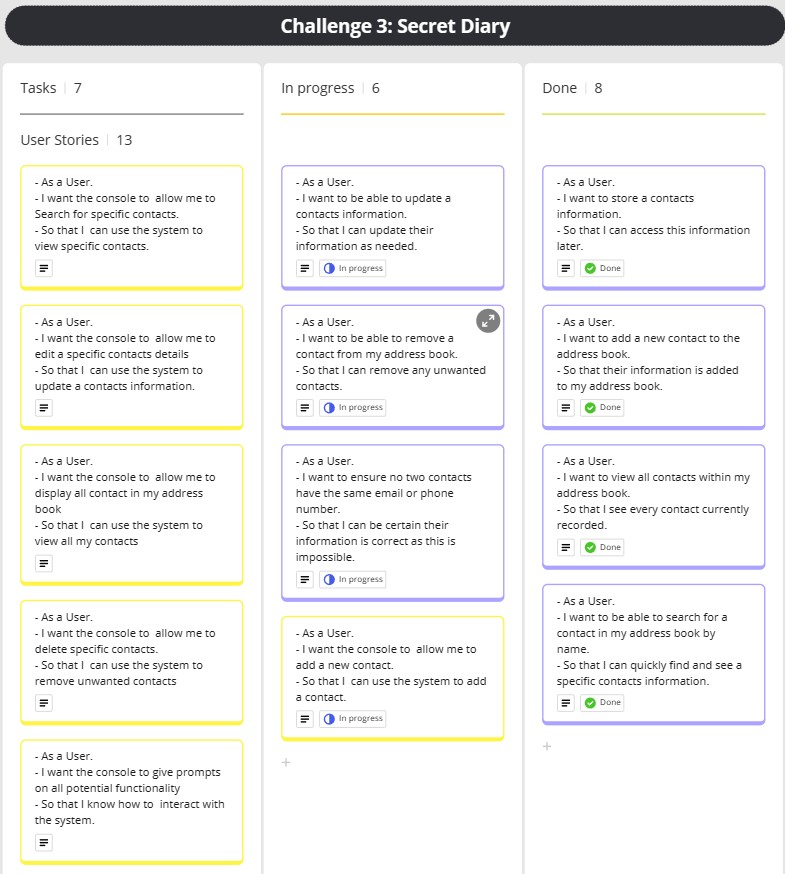
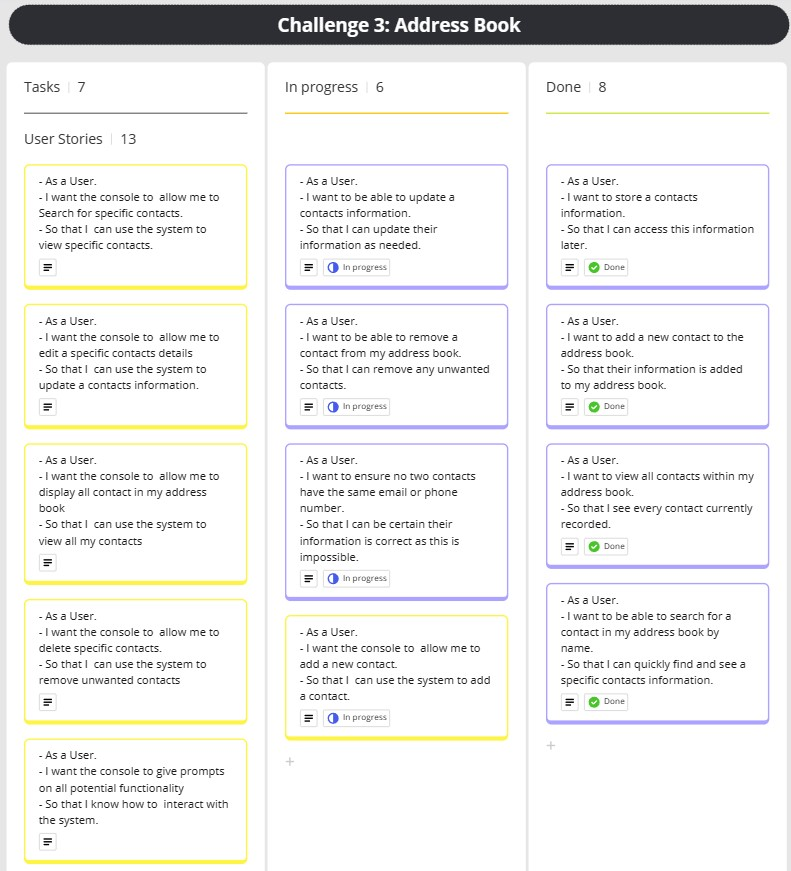
Updated markdown with analysis, updated kaban image, added some minor logic to clear current contact after moving on from searching

diff --git a/src/main/java/com/digitalfutures/app/Main.java b/src/main/java/com/digitalfutures/app/Main.java
@@ -24,10 +24,10 @@ public class Main {
         String read = scanner.nextLine();
         if(read.equalsIgnoreCase("View Contacts")) {
             //view all contacts
-            viewContacts(); return; }
+            viewContacts(); currentContacts = null; return; }
         if(read.equalsIgnoreCase("New Contact")) {
             // make new contact & add to book
-            newContact(); return; }
+            newContact(); currentContacts = null; return; }
         if(read.contains("Search ") || read.contains("search")) {
             // Search & display contact(s)
             searchContacts(read.substring(7)); return; }
@@ -39,7 +39,7 @@ public class Main {
              deleteContact(); return; }
         if(read.equalsIgnoreCase("Help")) {
             // Delete current contact
-            console.printHelp(); return; }
+            console.printHelp(); currentContacts = null; return; }
         // default
         console.printOutput("Invalid Input, type 'Help' to see a list of commands.");
     }

diff --git a/docs/task-analysis.md b/docs/task-analysis.md
@@ -1,48 +1,58 @@
-# Airport Challenge
+# Address Book Challenge
 ## Introduction
-The days of hoarding stacks of money under your mattress are gone, in modern times almost every person has a bank account to manage their finances instead. Banking is an essential part of modern life with it controlling your access to your own money, but in order to maintain security it can be rather cumbersome. Traveling to a bank and waiting in a que just to withdraw £5 for an ice cream sounds like a hassle, so what if there was another way. Introducing this application which can revolutionise the way banking is done.
+Recording your contacts on pen and paper if effective, but wouldn’t it be easier to have all your contacts information at your fingertips?  This application aims to provide an environment where you can store and search through all your contacts, maintaining a personal address book with an easy-to-use console interface. 
 
 ## The Problems
-As someone with a bank account, the ability to perform your online banking remotely can provide some extremely large benefits to both the users and the company.
+When your list of contacts grows over the years, maintaining an easy-to-use repository of them can become a hassle.
 
-- **Difficulty maintaining enough branches for user access?** Whenever someone with a bank account want to withdraw or deposit any amount, even £5, they need to commute to a bank branch. This puts pressure on the company to ensure users have a branch nearby that's open most of the day so competitors can't steal your clients, however this much be highly costly. By allowing your customers to perform some simple banking through tis console application, the number of people needing to commute to a bank physically decreases, giving an opportunity to save costs.
-
-- **Do your customers need to access their accounts quickly?** By providing a digital service available on an electronic device, users can have much quicker access to their accounts than if they went to a bank in person. This results in a much more pleasurable experience from the user as they save time and can complete the task far easier.
-
-- **Need an advantage over competitors?** Promoting this software and giving access to your customers is a strong advertising tool that may help the company hold a larger share of the market. The software is easy to use and provides quick access to all a user's daily requirements, by advertising this it's sure to grab the attention of potential customers and show the appeal of moving their account to your bank.
+- **Too Many Contacts?** As you add contacts over the years, maintaining an easy-to-read list of alphabetical names can become a difficult task. Even if you succeed, it can still take several minutes to find the information you need. With the address book, all it takes is a quick search of a contacts name to see a list of every match within your address book, taking only seconds to get that important information.
 
 
-### Documented Functionality
-Based on the requirements provided by the BoDF, a set of functionalities have been identified that the software must be able to perform. The software will:
-- Allow the access and ability to view a user's account,
-- Facilitate the addition or subtraction of funds from the account,
-- Regulate the accounts total funds between all transactions,
+- **Need Information Fast?** Using the simple commands through the console interface, it takes only a few seconds to get the information needed. Whether you wish to see a list of all contacts in the address book, or search for a specific name, the software can show an orderly list of all their information through a few short commands.
+
+
+- **Want to Update Details?** People change phone numbers and get new email addresses, but making these changes constantly can ruin a neatly ordered address book. With this digital application, a contacts information can quickly be adjusted however many times necessary. 
+
+
+## Documented Functionality
+Based on the requirements provided by the DFCorp, a set of functionalities have been identified that the software must be able to perform. The software will:
+- Hold a record of all the users Contacts and their information,
+- Perform logical validation of inputs to reduce accidental errors,
+- Provide a console interface for easy interaction and manipulation of the address book data,
 
 
 ## The Software’s Benefits
-With these features implemented, the software will be able to function as an effective console banking system, which the user can use to facilitate their banking needs, such as:
+With these features implemented, the software will be able to function as a convenient address book with a quick and simple interface for the users ease of use:
 
-- By ensuring the console app enforces a simple and readable design layout, all information to the user is displayed in an easy to digest manner. By doing this, it ensures users won't get put off from having difficulty in obtaining the information they're looking for and thus helps ensure their perception of the app is a positive one.
+- With layers of validation embedded within the software, it helps ensure that the user  only enters valid information for a contact. This helps protect against any accidental mis-inputs from the user and provides a layer of protection to ensure nothing goes wrong with the software which could cause it to crash.
 
-- With one command, the software can provide a detailed documentation of your account's history and current available funds. Whether a user wants to check a payment went through, or is worried about going into debt, the software provides an easy method to give these users their answers in a swift manner.
+- Though the software has no immediate security in place for user verification or data encryption, it has the added benefit of being disconnected from the internet. Unlike other applications that can store information on a contact such as a mobile phone, this software isn’t connected directly to the internet and as such is at a lower risk of being targeted by internet users with malicious intentions of stealing personal data.
 
-- The software has a simple but easily expandable design, fulfilling all current functionality but with plenty of room for expansion. As the company wishes to add more functionality to the software and new requirements are identified, they can be easily added to the software’s core functionality. This allows it to be adjusted into the future to always meet the users’ needs and keep the software updated to be the best on the market.
+- By requiring the user to search for a contact before being able to edit or delete any information, it provides a level of security to ensure no mistakes happen. Inputting the delete or edit commands without first searching for a contact won’t invoke any change in the contacts, helping protect against unwanted alterations. 
 
 
 ## Associated Risks
 As with all tools, the software will come with some risks that have been identified below.
 
-- By providing external access to a user's account, it could also be an entry point for malicious users and become a vulnerability in the software. It's no surprise that there are some people who would look to abuse the access this app grants to alter account funds in a malicious manner. It would be wise to have a software security professional assist in the development of the application to ensure proper security of both the users and companies funds.
+- The address book requires no credentials or log-in information to access its contents. Anyone with access to the software could view all the information stored about each of the user’s contacts. This risks exposing sensitive information about the user’s contacts and should be considered when thinking about security of the software.
 
-- The software failing is another risk as the hardware used to run the software is always at risk of power outages, environmental factors, and user mistakes. Any number of reasons can cause the software to fail, including issues outside of the hardware. If this occurs then not only may access to user's accounts be disrupted, but worst case scenario they may even have their account altered by some corruption.
+- The software failing is another risk as the hardware used to run the software is always at risk of power outages, environmental factors, and user mistakes. Any number of reasons can cause the software to fail, including issues outside of the hardware. If this occurs then there’s a risk of data corruption or loss, which can result  in the loss or alteration of contacts information from the address book.
 
-- With all this functionality being implemented within the software, there's the chance that it may not perform a task from a user as expected. Whether its unexpected data type being used, an error in how the software handles various exceptions, or a miss-input from the user resulting in a transaction they hadn't desired, these accidents can have serious ramifications of a user's account information.
+
+## Impact on Business
+In comparison to recording a list of contact information manually, this software provides a convenient service many wish to have access to. The impact on the business could be varied, some of which are discussed below:
+
+- **Glaring Competitors:** In the modern age, most people already have a method of storing vast amount of information on their various contacts. Most phones now record not only the name and phone number of their contacts, but can store their emails, birthdays, addresses and various other pieces of information. In reality this software is redundant in today’s world where everyone has a computer in their pocket already performing these actions. As such, this software wouldn’t provide much if any exposure for the company and most likely be ignored by the wider world.
+
+
+- **Backlash from Security Concerns:** As described in the risks section, the software currently has no security measures in place to verify the user and control access to the address book. As a result, the information of all a user’s contacts is easily accessible by anyone, and this glaring security fault could be the source of immense backlash from users after installation.
 
 
 ## Conclusion
-By giving out software with direct access to user's bank accounts, you obviously invite malicious users who would looks to exploit this boon. However, the benefits of this software are great for both the users and the company. By providing a quick and easy way to conduct simple banking, users can have a more pleasant experience with not needing to spend as much time traveling to a bank. This also benefits the company, with the need to physical branch banks reducing there would be ways to save costs.
+With its simple and convenient console input design, the software acts as a great way for users to store their personal contacts information on their own machines. However, in the modern age there already exists many other methods of performing the exact same functionality that are far more practical, convenient, and secure.
 
-The software’s documented functionality covers all of the BoDF's listed requirements, but with its simple and robust framework it has potential to be expanded for future functionality the bank may wish to supply. So long as the risks are understood and protected against, this application will be an amazing addition to the companies feature set.
+Expanding upon the core functionality with a user interface, adding security measures and additional functionality that makes the software unique from its competitors may enable it to stand out in an already dense market. In likelihood however, this software holds very little place where almost every mobile phone performs the same functionality out of the box.
+
 
 
 <br><br>
